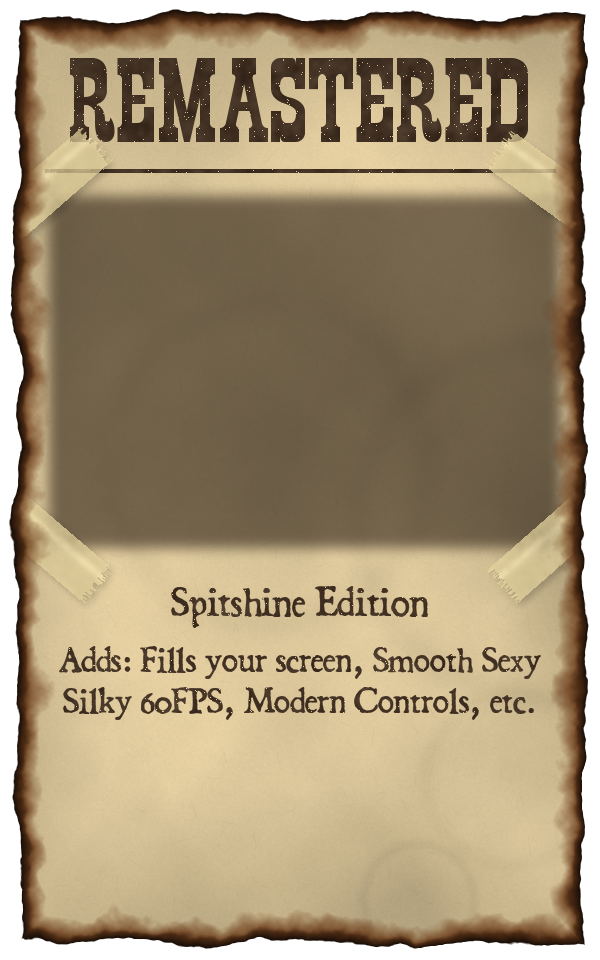
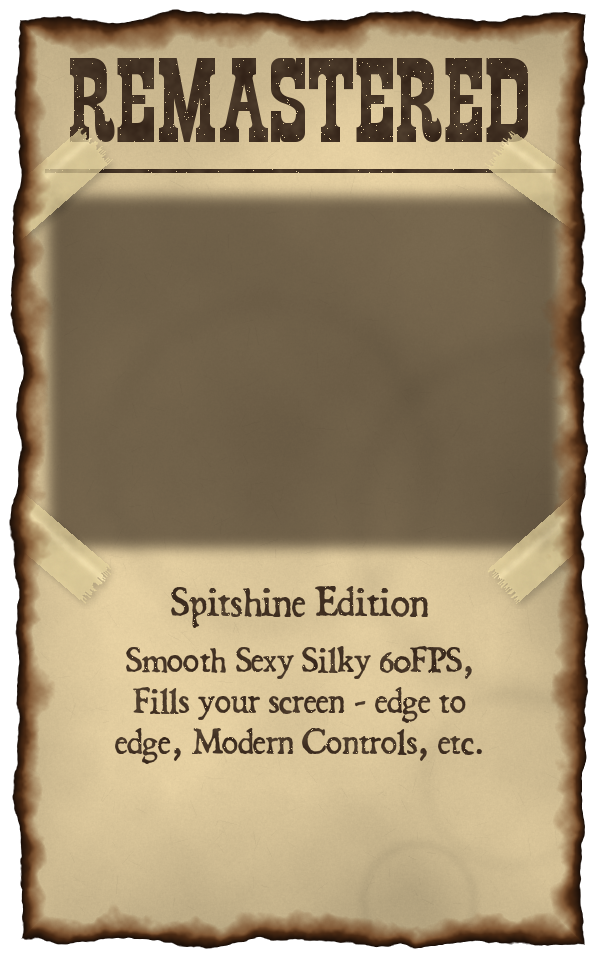
Presets: K's new descriptions, Click-Stick Dash in Remastered, balanced line breaks
The posters and the in-game band share each preset's words out evenly over
the fewest lines; '&' and ' - ' keep their neighbours.

Claude-Session: https://claude.ai/code/session_015nceD15aHQRZ1ZsC4tWYTp

Changed region(s): [[0.09, 0.6562, 0.9, 0.8125]]

diff --git a/src/kamite/options_overlay.cpp b/src/kamite/options_overlay.cpp
@@ -1400,7 +1400,8 @@ namespace kamite::options_overlay
             return units / kHelpUnitsPerEm;
         }
 
-        // Greedy word wrap at `width` units: the lines.
+        // Greedy word wrap at `width` units: the lines. An '&' or ' - ' stays on the line of both its neighbours (K,
+        // Nov 16: "Misqu\xC3\xA9 & Risqu\xC3\xA9" never breaks).
         std::vector<std::string> wrapAt(const char *text, float cap, float width)
         {
             std::vector<std::string> lines(1);
@@ -1410,7 +1411,8 @@ namespace kamite::options_overlay
                 while (*c == ' ')
                     ++c;
                 const char *end = c;
-                while (*end && *end != ' ')
+                while (*end && (*end != ' ' || ((end[1] == '&' || end[1] == '-') && end[2] == ' ') ||
+                                 (end > c && (end[-1] == '&' || end[-1] == '-') && end[-2] == ' ')))
                     ++end;
                 if (end == c)
                     break;
@@ -1421,6 +1423,54 @@ namespace kamite::options_overlay
                 else
                     line = candidate;
                 c = end;
+            }
+            return lines;
+        }
+    }
+
+    namespace
+    {
+        // The words of a greedy wrap shared out again over as many lines, the widest as narrow as it can be (K, Nov 16:
+        // no word left alone on a line). A line's words stay its words: '&' / ' - ' groups are not split.
+        std::vector<std::string> balance(const std::vector<std::string> &greedy, float cap)
+        {
+            std::vector<std::string> words;
+            for (const std::string &line : greedy)
+            {
+                // the greedy lines' groups: split at the spaces wrapAt splits at
+                const std::vector<std::string> parts = wrapAt(line.c_str(), cap, 0.0f);
+                words.insert(words.end(), parts.begin(), parts.end());
+            }
+            const size_t n = words.size(), count = greedy.size();
+            if (count < 2 || n <= count)
+                return greedy;
+            const auto span = [&](size_t i, size_t j) {
+                std::string text = words[i];
+                for (size_t k = i + 1; k < j; ++k)
+                    text += " " + words[k];
+                return helpTextWidth(text.data(), text.size(), cap);
+            };
+            // widest[i][l]: the narrowest widest line for words i.. on l lines; cut[i][l] the first line's end
+            std::vector<std::vector<float>> widest(n + 1, std::vector<float>(count + 1, 1e30f));
+            std::vector<std::vector<size_t>> cut(n + 1, std::vector<size_t>(count + 1, n));
+            widest[n][0] = 0.0f;
+            for (size_t l = 1; l <= count; ++l)
+                for (size_t i = n; i-- > 0;)
+                    for (size_t j = i + 1; j + (l - 1) <= n; ++j)
+                    {
+                        const float w = std::max(span(i, j), widest[j][l - 1]);
+                        if (w < widest[i][l])
+                            widest[i][l] = w, cut[i][l] = j;
+                    }
+            std::vector<std::string> lines;
+            for (size_t i = 0, l = count; l > 0; --l)
+            {
+                const size_t j = cut[i][l];
+                std::string text = words[i];
+                for (size_t k = i + 1; k < j; ++k)
+                    text += " " + words[k];
+                lines.push_back(text);
+                i = j;
             }
             return lines;
         }
@@ -1445,6 +1495,7 @@ namespace kamite::options_overlay
             lines = wrapAt(band, cap, bandWidth);
         }
         fit.bandCap = cap;
+        lines = balance(lines, cap);
         for (size_t i = 0; i < lines.size(); ++i)
             fit.band += (i ? "\n" : "") + lines[i];
         // The tagline: across the carousel (beside the list on 16:10 and wider, else the whole width), one line.

diff --git a/tools/launcher/make_posters.py b/tools/launcher/make_posters.py
@@ -115,7 +115,7 @@ class BMFont:
 
     def width(self, text, px):
         s = px / self.size
-        return sum(self.chars.get(ord(c), self.chars[63])['xadvance'] for c in text) * s
+        return sum(self.chars.get(ord(c), self.chars[63])['xadvance'] for c in text.replace('\u00a0', ' ')) * s
 
     def draw(self, mask, x, y, text, px):
         """Into an L mask at (x, top y), cap ~ px."""
@@ -130,15 +130,40 @@ class BMFont:
             x += g['xadvance'] * s
 
     def wrap(self, text, px, width):
-        out, line = [], ''
-        for wd in text.split(' '):
+        """As few lines as a greedy wrap needs, the words shared out so the lines are as even as possible (K, Nov 16:
+        no word left alone on a line). '&' and ' - ' stay with the words either side ("Misqu\u00e9 & Risqu\u00e9")."""
+        words = text.replace(' & ', '\u00a0&\u00a0').replace(' - ', '\u00a0-\u00a0').split(' ')
+        count, line = 1, ''
+        for wd in words:
             t = (line + ' ' + wd).strip()
             if self.width(t, px) > width and line:
-                out.append(line); line = wd
+                count += 1; line = wd
             else:
                 line = t
-        out.append(line)
-        return out
+        n = len(words)
+        span = lambda i, j: self.width(' '.join(words[i:j]), px)
+        best = {(n, 0): (0.0, [])}  # (from word, lines left) -> (the widest line, the cut points)
+
+        def solve(i, left):
+            if (i, left) in best:
+                return best[(i, left)]
+            out = (float('inf'), [])
+            if left > 0:
+                for j in range(i + 1, n - left + 2):
+                    w = span(i, j)
+                    if w > width and j > i + 1:
+                        break
+                    rest = solve(j, left - 1)
+                    if max(w, rest[0]) < out[0]:
+                        out = (max(w, rest[0]), [j] + rest[1])
+            best[(i, left)] = out
+            return out
+
+        cuts = solve(0, count)[1]
+        lines, i = [], 0
+        for j in cuts:
+            lines.append(' '.join(words[i:j]).replace('\u00a0', ' ')); i = j
+        return lines
 
 
 

diff --git a/src/kamite/presets.cpp b/src/kamite/presets.cpp
@@ -14,16 +14,16 @@ namespace kamite::presets
 {
     // K's text (Nov 16 night; claude/presets-design.md). The same strings in game, in the launcher and on the posters.
     const Text kText[kCount] = {
-        {"CLASSIC", "Classic", "Clover's Vanilla Thrilla", "4:3, Cinetastic 30FPS, Classic Camera & Controls, as handed by God.",
+        {"CLASSIC", "Classic", "Clover's Vanilla Thrilla", "Cinetastic 30FPS, 4:3, Classic Camera & Controls, as handed by God.",
          13},
         {"REMASTERED", "Remastered", "Spitshine Edition",
-         "Adds: Fills your screen, Smooth Sexy Silky 60FPS, Modern Controls, etc.", 17},
+         "Smooth Sexy Silky 60FPS, Fills your screen - edge to edge, Modern Controls, etc.", 17},
         {"REARMED", "Rearmed", "That's the Spice!",
-         "Adds: New Camera, Click-Stick Dash, Dry Spinning, Target Select, Sway Bar, Moveset Presets, Buck Breaker, "
-         "Busta-Chan Jive, and Misqu\xC3\xA9 & Risqu\xC3\xA9.",
+         "Adds: New Cam Angle, Roulette Refinements, Moveset Presets, Buck Breaker, Busta-Chan Jive, and "
+         "Misqu\xC3\xA9 & Risqu\xC3\xA9.",
          18},
         {"SLEAZY MODE", "Sleazy Mode", "...is Now Selectable! For the girl who just wants to have fun.",
-         "Adds: Tension is Placable, Off the Cuff, Cunt Punter, and Wild Curry Funk.", 15},
+         "Adds: Cunt Punter, Tension - Off the Cuff, and Wild Curry Funk.", 15},
     };
     const Text kCustomText = {"CUSTOM", "Custom", "Your own mix.", "Pick a preset to replace it.", 1};
 
@@ -52,7 +52,7 @@ namespace kamite::presets
             {"SkipIntro", {"0", "1", "1", "1"}},
             {"UnlockHard", {"0", "1", "1", "1"}},
             {"RouletteRatchet", {"0", "1", "1", "1"}},
-            {"L3Dash", {"0", "0", "1", "1"}},
+            {"L3Dash", {"0", "1", "1", "1"}}, // Remastered since Nov 16 (K)
             {"RouletteTargetCycle", {"0", "0", "1", "1"}},
             {"RouletteNoOrbs", {"0", "0", "1", "1"}},
             {"SwayBar", {"0", "0", "1", "1"}},

diff --git a/CHANGELOG.md b/CHANGELOG.md
@@ -7,6 +7,7 @@ Newest first, one line per change; the code comments say how.
 - Options > Presets, first in the title and pause Options: Classic, Remastered, Rearmed or Sleazy Mode in one go; changing an option a preset sets shows Custom.
 - Launcher Options: a Presets tab with the same four presets.
 - New installs: the launcher first asks how you want to play, with a wanted poster per preset.
+- Presets: new descriptions; Remastered also turns on Click-Stick Dash.
 - Signal Style Switch is on by default.
 - New keyboard & mouse layout for new installs: WASD move, Shift + WASD dodge, Space / E / left click / right click for the face buttons, Q turn, R roulette, F taunt, G God Hand, middle click brawl / freecam, 1-4 styles, Esc pause.
 - Dodge Modifier (Shift by default, rebindable): hold it to dodge with the move keys, in brawl mode and freecam.
